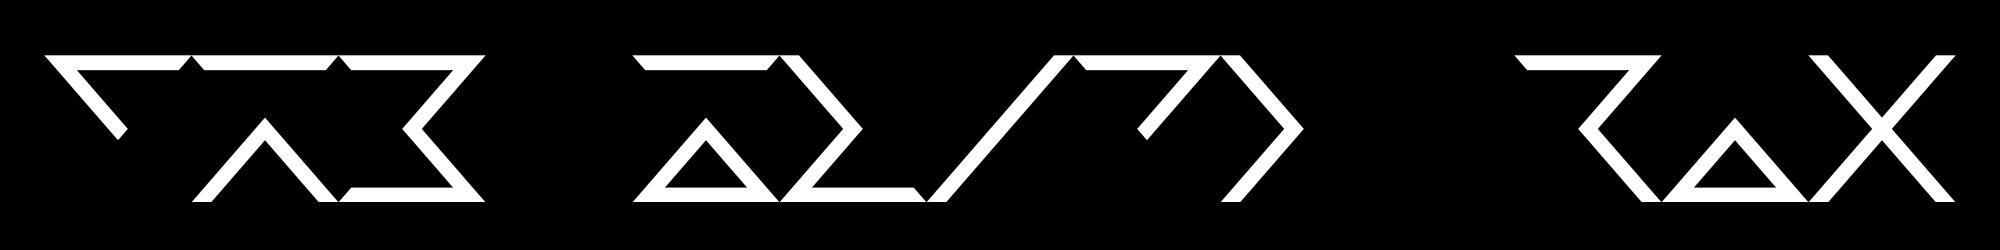
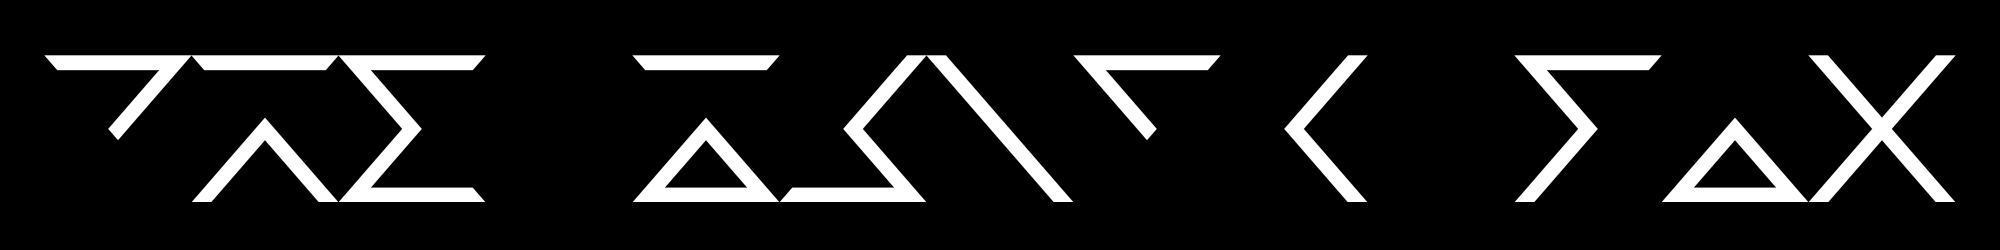
fixes

diff --git a/infex-from-zero.py b/infex-from-zero.py
@@ -1,7 +1,7 @@
 .p from math import *
 from PIL import Image, ImageDraw, ImageFont
 
-d =100
+d = 100
 L = 1000
 polygons = [[0,0]]*20
 
@@ -12,7 +12,7 @@ polygons[16] = [0, L]
 polygons[19] = [L, L]
 
 # 2
-gipotenuza = (L/2)*sqrt(2)
+gipotenuza = (L/2)*sqrt(2) 
 katet = d/2
 ugol = pi/2-acos(katet/gipotenuza)+pi/4
 iskomoe=L - (L/tan(ugol))
@@ -122,99 +122,77 @@ def paravozik(idx, start):
     if finded_idx == -1:
         return [start]
     return [start] + paravozik(finded_idx, remainder)
-for i in range(64):
-	number = f"{bin(23)[2:]:0>6}"
-	numlist = [int(i) for i in list(number)]
-	# линии
-	for i, k in map.items():
-	    maplines[i] = []
-	    for linenum in range(len(k)):
-	        maplines[i].append([k[linenum], k[(linenum+1)%4]])
-	# линии с определением, уникально чи н
-	maplinescategorized = {}
-	for i, k in map.items():
-	    maplinescategorized[i] = {}
-	    maplinescategorized[i]["u"] = []
-	    maplinescategorized[i]["n"] = []
-	    for linenum in range(len(k)):
-	        maplinescategorized[i]["u" if unique([k[linenum], k[(linenum+1)%4]]) else "n"].append([k[linenum], k[(linenum+1)%4]])
-	
 
-	active_elements = {i:False for i in range(0, 11)}
-	
-	#находем активные элементы (6 -> 11)
-	for idx, val in enumerate(numlist):
-	    elements = elements4num[idx]
-	    if val:
-	        for i in elements:
-	            active_elements[i] = True
-	
-	# список активных линий
-	resultus = []
-	for idx, active in active_elements.items():
-	    #print(maplinescategorized[idx])
-	    if active:
-	        resultus += maplinescategorized[idx]["u"]
-	    else:
-	        for i in maplinescategorized[idx]["n"]:
-	            for j in i:
-	                if point_in_active(j):
-	                    if i not in resultus:
-	                        resultus.append(i)
-	
-	#print(resultus)
-	
-		
-	resulted_paravozik = []
-	while resultus:
-	    subparavoz = paravozik(0, resultus[0][0])
-	    if len(subparavoz) == 3:
-	        subparavoz.reverse()
-	    resulted_paravozik.append(subparavoz)
-	
-	
-	svg_start = f'<svg width="{1000}" height="{1000}" viewBox="0 0 {1000} {1000}" xmlns="http://www.w3.org/2000/svg">\n  <path d="'
-	#M 0,0 L 200,0 L 200,200 L 0,200 Z M 50,50 L 50,150 L 150,150 L 150,50 Z
-	svg_end = '" />\n</svg>'
-	
-	
-	svg = ""
-	for i in resulted_paravozik:
-	    for num, j in enumerate(i):
-	        if num == 0:
-	            svg += "M "
-	        else:
-	            svg += "L "
-	        svg += f"{polygons[j][0]},{polygons[j][1]} "
-	    svg += "Z "
-	svg = svg_start + svg + svg_end
-	print(svg)
-	with open(f"/storage/emulated/0/{number}.svg", "w", encoding="utf-8") as file:
-	    file.write(svg)
-	
-	
-	# рендер
-	margin = 80
-	img_size = L + margin * 2
-	img = Image.new('RGB', (img_size, img_size), 'white')
-	draw = ImageDraw.Draw(img)
-	for i, (x, y) in enumerate(polygons):
-	    px = x + margin
-	    py = y + margin
-	    radius = 6
-	    draw.ellipse(
-	        (px - radius, py - radius, px + radius, py + radius),
-	        fill='red', outline='black', width=1
-	    )   
-	    draw.text((px + 8, py - 10), str(i), fill='black')
-	    coord_text = f'({int(x)},{int(y)})'
-	    draw.text((px + 8, py + 8), coord_text, fill='blue')
-	
-	for i in resultus:
-	    a = polygons[i[0]]
-	    b = polygons[i[1]]
-	    a = [iii + margin for iii in a]
-	    b = [iii + margin for iii in b]
-	    draw.line([tuple(a), tuple(b)], fill ="red", width = 10)
-	
-	print_photo(img)
+for truenumber in range(64):
+    number = f"{bin(truenumber)[2:]:0>6}"
+    numlist = [int(i) for i in list(number)]
+    # линии
+    for i, k in map.items():
+        maplines[i] = []
+        for linenum in range(len(k)):
+            maplines[i].append([k[linenum], k[(linenum+1)%4]])
+    # линии с определением, уникально чи н
+    maplinescategorized = {}
+    for i, k in map.items():
+        maplinescategorized[i] = {}
+        maplinescategorized[i]["u"] = []
+        maplinescategorized[i]["n"] = []
+        for linenum in range(len(k)):
+            maplinescategorized[i]["u" if unique([k[linenum], k[(linenum+1)%4]]) else "n"].append([k[linenum], k[(linenum+1)%4]])
+    
+
+    active_elements = {i:False for i in range(0, 11)}
+    
+    #находем активные элементы (6 -> 11)
+    for idx, val in enumerate(numlist):
+        elements = elements4num[idx]
+        if val:
+            for i in elements:
+                active_elements[i] = True
+    
+    # список активных линий
+    resultus = []
+    for idx, active in active_elements.items():
+        #print(maplinescategorized[idx])
+        if active:
+            resultus += maplinescategorized[idx]["u"]
+        else:
+            for i in maplinescategorized[idx]["n"]:
+                for j in i:
+                    if point_in_active(j):
+                        if i not in resultus:
+                            resultus.append(i)
+    
+    #print(resultus)
+    
+        
+    resulted_paravozik = []
+    while resultus:
+        subparavoz = paravozik(0, resultus[0][0])
+        if polygons[subparavoz[0]][0] > polygons[subparavoz[1]][0]:
+            subparavoz.reverse()
+        if len(subparavoz) == 3:
+            subparavoz.reverse()
+        resulted_paravozik.append(subparavoz)
+    
+    
+    svg_start = f'<svg width="{1000}" height="{1000}" viewBox="0 0 {1000} {1000}" xmlns="http://www.w3.org/2000/svg">\n  <path d="'
+    #M 0,0 L 200,0 L 200,200 L 0,200 Z M 50,50 L 50,150 L 150,150 L 150,50 Z
+    svg_end = '" />\n</svg>'
+    
+    
+    svg = ""
+    for i in resulted_paravozik:
+        for num, j in enumerate(i):
+            if num == 0:
+                svg += "M "
+            else:
+                svg += "L "
+            svg += f"{polygons[j][0]},{polygons[j][1]} "
+        svg += "Z "
+    svg = svg_start + svg + svg_end
+    with open(f"/storage/emulated/0/INFILAXY_SVGS_100/{truenumber}.svg", "w", encoding="utf-8") as file:
+        file.write(svg)
+    
+    
+    

diff --git a/svg2ttf.py b/svg2ttf.py
@@ -71,26 +71,18 @@ glyph_map = {
 }
 
 for name, codes in glyph_map.items():
-    svg_path = f"/storage/emulated/0/INFILAXY_SVGS/{name}.svg"
+    svg_path = f"/storage/emulated/0/INFILAXY_SVGS_100/{name}.svg"
     if os.path.exists(svg_path):
-        # Создаём глиф для каждого кода из массива
         for code in codes:
             glyph = font.createChar(code, f"{name}_{code}")
             glyph.importOutlines(svg_path)
-            # После цикла импорта всех глифов
-			
-		
-# После цикла импорта всех глифов
-if 32 in font:                 # глиф пробела
-    if 65 in font:             # глиф 'A' (или любой другой)
+if 32 in font:
+    if 65 in font:
         font[32].width = font[65].width
     else:
-        # Если 'A' нет, можно взять первый попавшийся глиф
         for glyph in font:
             font[32].width = glyph.width
             break
 
-
-# Экспортируем в TTF
-font.generate("infex-main-264.8.ttf")
-print("Шрифт успешно экспортирован в my_font.ttf")
+font.generate("infex-main-100.ttf")
+print("done")